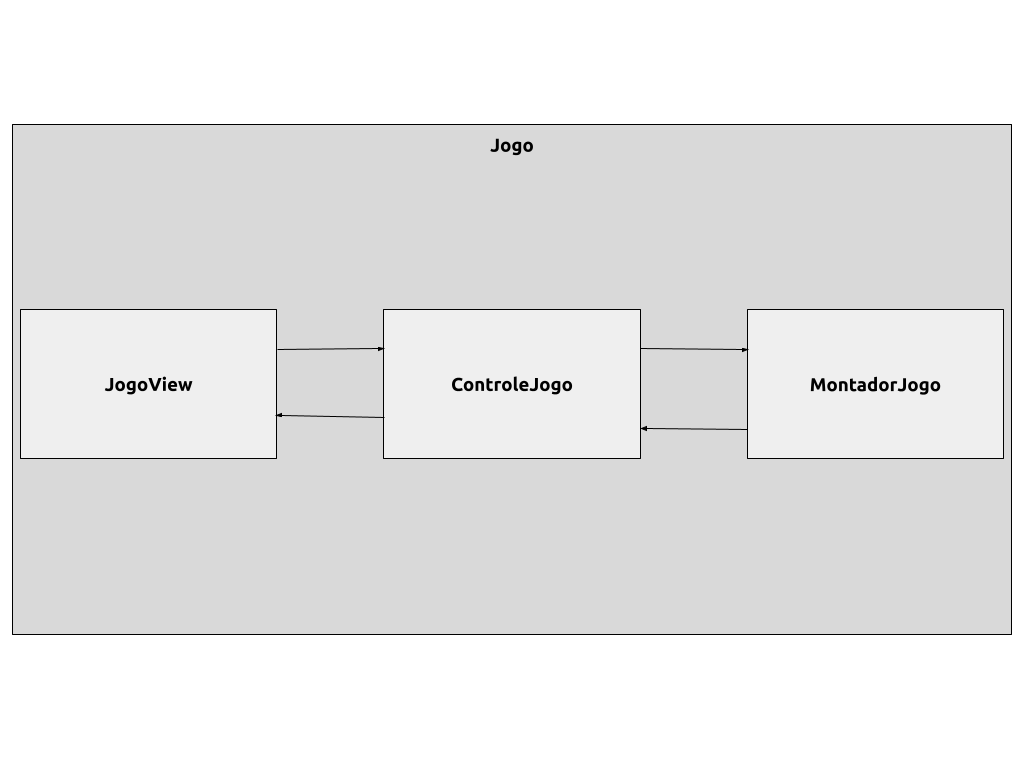
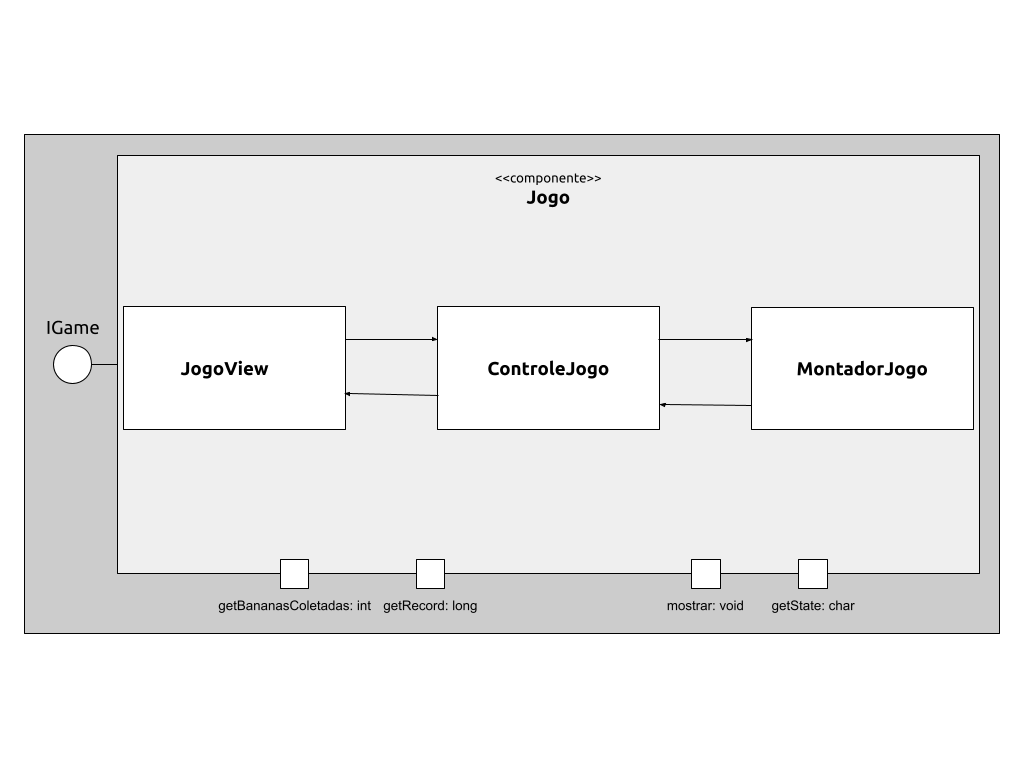
README entrega parcial 2 pronto

diff --git a/README.md b/README.md
@@ -2,7 +2,8 @@
 
 # Descrição Resumida do Projeto/Jogo
 
-Em _Macaconautas_ o jogador controla um macaco com uma mochila a jato que deve desviar de aliens, lasers e obstáculos para coletar bananas e percorrer a maior distância possível.
+Em _Macaconautas_ o jogador controla um macaco com uma mochila a jato que deve desviar de aliens, lasers e obstáculos para coletar bananas e percorrer a maior distância possível. Ele pode comprar skins diferentes para o macaco com as bananas em nossa magnífica loja e tentar quebrar seus recordes de distância, com o jogo cada vez mais difícil com o aumento da distância! <br>
+<b>OBS:</b> whey protein de banana pode ser um ótimo suplemento para um primata!
 
 # Equipe
 
@@ -29,7 +30,7 @@ Em _Macaconautas_ o jogador controla um macaco com uma mochila a jato que deve d
 
 ![Diagrama Geral](assets/diagrama-componentes-Geral.png)
 
-> O AppMacaconautas inicializa o Controle. Então o Controle inicializa o algum dos três componentes: Jogo, Loja ou Menu, de acordo com o estado atual.
+> O AppMacaconautas inicializa o Controle. Então oControle inicializa algum dos três componentes: Jogo, Loja ou Menu, de acordo com o estado atual.
 
 ## Diagrama Geral de Componentes
 
@@ -47,143 +48,153 @@ Em _Macaconautas_ o jogador controla um macaco com uma mochila a jato que deve d
 
 ## Componente Jogo
 
-> <Resumo do papel do componente e serviços que ele oferece.>
+> O Jogo é responsável pela administração, visualização e criação de elementos e do ambiente de jogo. Foi utilizado o pattern Model-View-Control para a sua arquitetura interna.
 
-![Componente](diagrama-componente.png)
+![Componente](assets/diagrama-componentes-Jogo.png)
 
 **Ficha Técnica**
 item | detalhamento
 ----- | -----
-Classe |  src.src.mc233.macaconautas.Jogo.* 
-Autores | André Ricardo e Pedro Gadelha
+Classe |  mc322.macaconautas.Jogo.* 
+Autores | André Ricardo e Pedro Gadêlha
 Interfaces | IGame
 
 ### Interfaces
 
 Interfaces associadas a esse componente:
 
-![Diagrama Interfaces](diagrama-interfaces.png)
+![Diagrama Interfaces](assets/diagrama-interfaces-JogoView.png)
 
 Interface agregadora do componente em Java:
 
 ~~~java
-public interface IDataSet extends ITableProducer, IDataSetProperties {
-}
+public interface IGame extends IGameInformation, IModo{}
 ~~~
 
 ## Componente Menu
 
-> <Resumo do papel do componente e serviços que ele oferece.>
+> O Menu é responsável pela administração e visualização do ambiente de navegação entre o jogo e a loja, e para sair programa. Foi utilizado o pattern Model-View-Control para a sua arquitetura interna.
 
-![Componente](diagrama-componente.png)
+![Componente](assets/diagrama-componentes-Menu.png)
 
 **Ficha Técnica**
 item | detalhamento
 ----- | -----
-Classe |  src.src.mc233.macaconautas.Mneu.* 
-Autores | André Ricardo e Pedro Gadelha
+Classe |  mc322.macaconautas.Menu.* 
+Autores | André Ricardo e Pedro Gadêlha
 Interfaces | IModo
 
 ### Interfaces
 
 Interfaces associadas a esse componente:
 
-![Diagrama Interfaces](diagrama-interfaces.png)
+![Diagrama Interfaces](assets/diagrama-interfaces-MenuView.png)
 
 Interface agregadora do componente em Java:
 
 ~~~java
-public interface IDataSet extends ITableProducer, IDataSetProperties {
+public interface IModo {
+  void mostrar();
+  char getState();
 }
 ~~~
 
 ## Componente Loja
 
-> <Resumo do papel do componente e serviços que ele oferece.>
+> O Loja é responsável pela administração, visualização e criação de elementos e do ambiente de jogo. Foi utilizado o pattern Model-View-Control para a sua arquitetura interna.
 
-![Componente](diagrama-componente.png)
+![Componente](assets/diagrama-componentes-Loja.png)
 
 **Ficha Técnica**
 item | detalhamento
 ----- | -----
-Classe |  src.src.mc233.macaconautas.Loja.* 
-Autores | André Ricardo e Pedro Gadelha
+Classe |  mc322.macaconautas.Loja.* 
+Autores | André Ricardo e Pedro Gadêlha
 Interfaces | IModo
 
 ### Interfaces
 
 Interfaces associadas a esse componente:
 
-![Diagrama Interfaces](diagrama-interfaces.png)
+![Diagrama Interfaces](assets/diagrama-interfaces-LojaView.png)
 
 Interface agregadora do componente em Java:
 
 ~~~java
-public interface IDataSet extends ITableProducer, IDataSetProperties {
+public interface IModo {
+  void mostrar();
+  char getState();
 }
 ~~~
 
 ## Detalhamento das Interfaces
 
-### Interface `<nome da interface>`
+### Interface IModo
 
-`<Resumo do papel da interface.>`
-
-~~~
-<Interface em Java.>
-~~~
-
-Método | Objetivo
--------| --------
-`<id do método em Java>` | `<objetivo do método e descrição dos parâmetros>`
-
-## Exemplo:
-
-### Interface `ITableProducer`
-
-Interface provida por qualquer fonte de dados que os forneça na forma de uma tabela.
+Responsável pela visualização do jogo e por devolver o estado do jogo para alterar o estado do App.
 
 ~~~java
-public interface ITableProducer {
-  String[] requestAttributes();
-  String[][] requestInstances();
+public interface IModo {
+  void mostrar();
+  char getState();
 }
 ~~~
 
 Método | Objetivo
 -------| --------
-`requestAttributes` | Retorna um vetor com o nome de todos os atributos (colunas) da tabela.
-`requestInstances` | Retorna uma matriz em que cada linha representa uma instância e cada coluna o valor do respectivo atributo (a ordem dos atributos é a mesma daquela fornecida por `requestAttributes`.
+void mostrar() | mostra na tela o serviço que o componente que o implementa oferece (o jogo, o menu ou a loja).
+char getState() | devolve o estado atual do do Componente para realizar as devidas ações no app.
 
-### Interface `IDataSetProperties`
+### Interface IGameInformation
 
-Define o recurso (usualmente o caminho para um arquivo em disco) que é a fonte de dados.
+Responsável por devolver ao app informações sobre resultados do jogo.
 
 ~~~java
-public interface IDataSetProperties {
-  public String getDataSource();
-  public void setDataSource(String dataSource);
+public interface IGameInformation {
+  int getBananasColetadas();
+  long getDistancia();
 }
 ~~~
 
 Método | Objetivo
 -------| --------
-`getDataSource` | Retorna o caminho da fonte de dados.
-`setDataSource` | Define o caminho da fonte de dados, informado através do parâmetro `dataSource`.
+int getBananasColetadas() | devolve o número de bananas coletadas para setar o total de bananas que o jogador possui.
+long getDistancia() | devolve a distância percorrida do jogador para setar, se for o novo recorde, a distância do app.
+
+### Interface IGame
+
+Interface agregadora que une IModo e IGameInformation para interagir com o componente Jogo.
+
+~~~java
+public interface IGame extends IGameInformation, IModo {
+ 
+}
+~~~
+
+### Interface IInit
+
+Inicia o App.
+	
+~~~java
+public interface IInit {
+  void init() throws InterruptionExcepion;
+}
+~~~
+
+Método | Objetivo
+-------| --------
+void init() | reponsável por inicial o app.
 
 # Plano de Exceções
 
 ## Diagrama da hierarquia de exceções
-`<Elabore um diagrama com a hierarquia de exceções como detalhado abaixo>`
-
-![Hierarquia Exceções](exception-hierarchy.png)
+Terá o de salvamento e carregamento.
 
 ## Descrição das classes de exceção
 
-`<Monte uma tabela descritiva seguindo o exemplo>:`
+Não possuímos um plano de exceção atual, pois o nosso jogo restringe ao máximo as ações do usuário. Contudo, estamos planejando o salvamento do jogo em um arquivo criptografado e iremos elaborar um plano de exceção para o carregamento do jogo salvo.
 
 Classe | Descrição
 ----- | -----
-DivisaoInvalida | Engloba todas as exceções de divisões não aceitas.
-DivisaoInutil | Indica que a divisão por 1 é inútil.
-DivisaoNaoInteira | Indica uma divisão não inteira.
+FileNotFound | Arquivo de carregamento de jogo salvo não foi encontrado.
+FileNotVerified | Arquivo não está no formato certo requerido pelo jogo.
